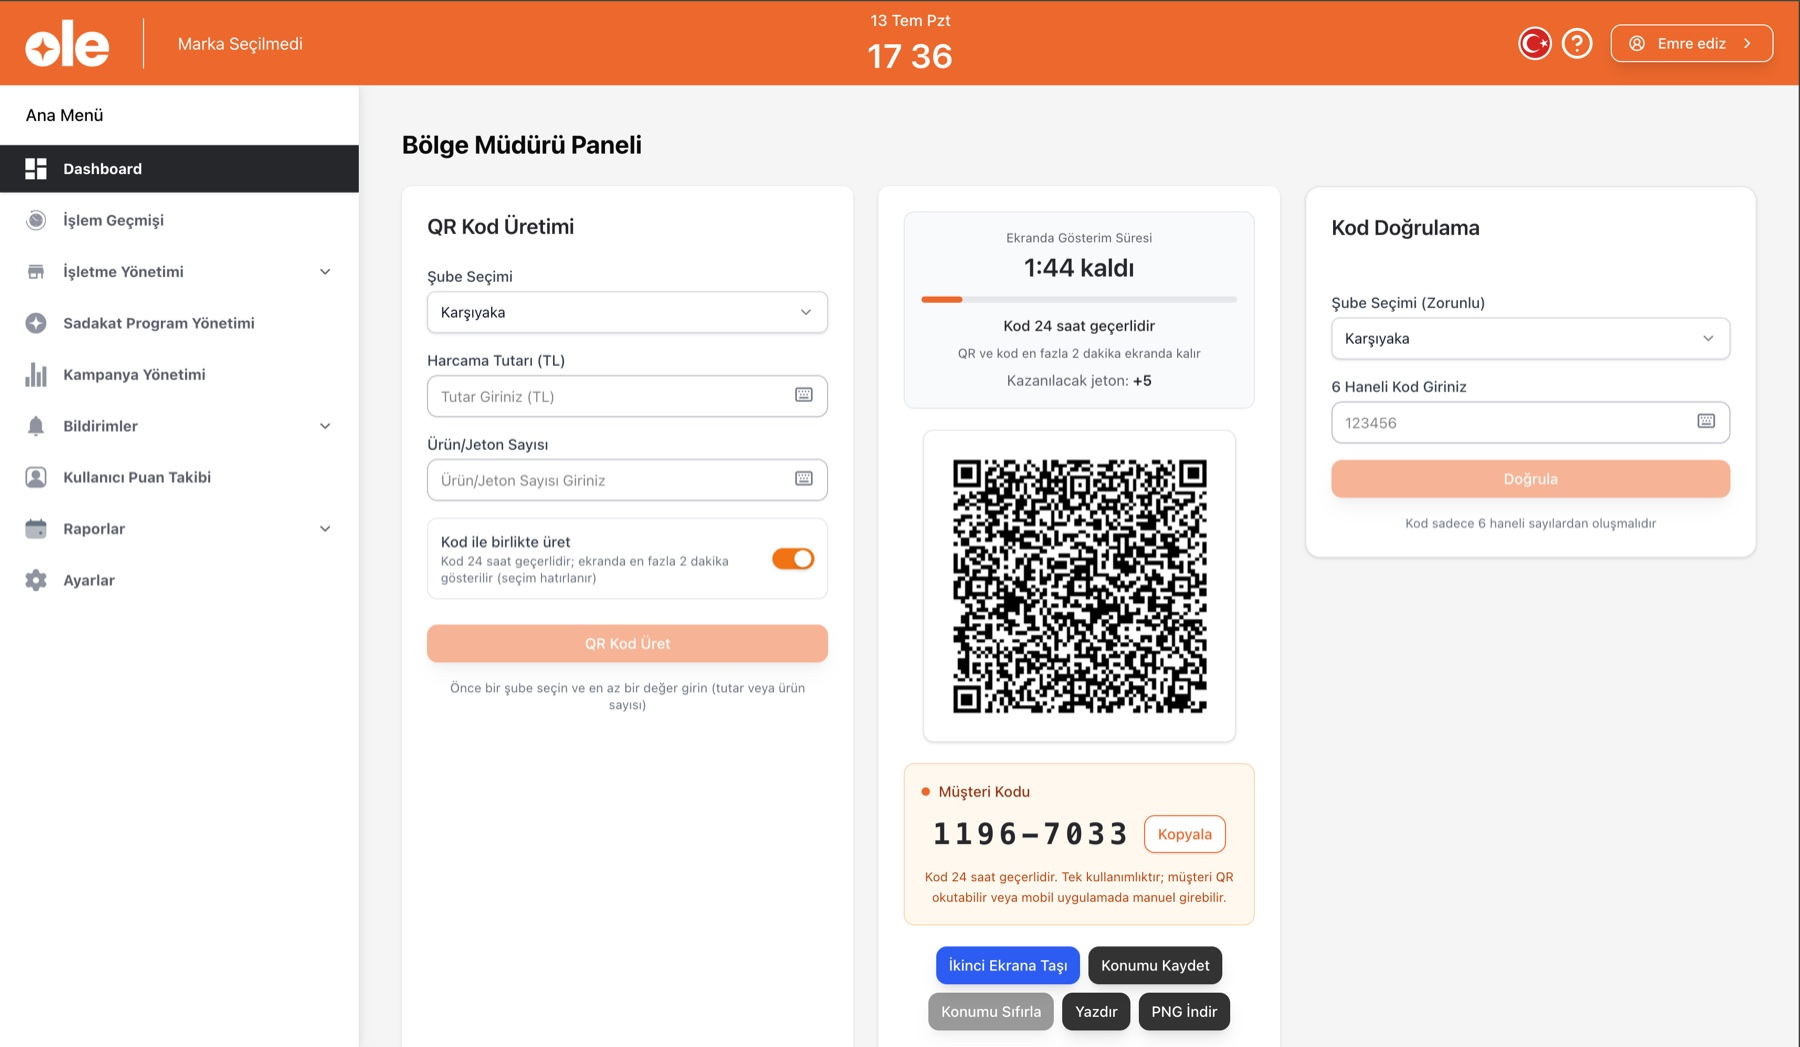
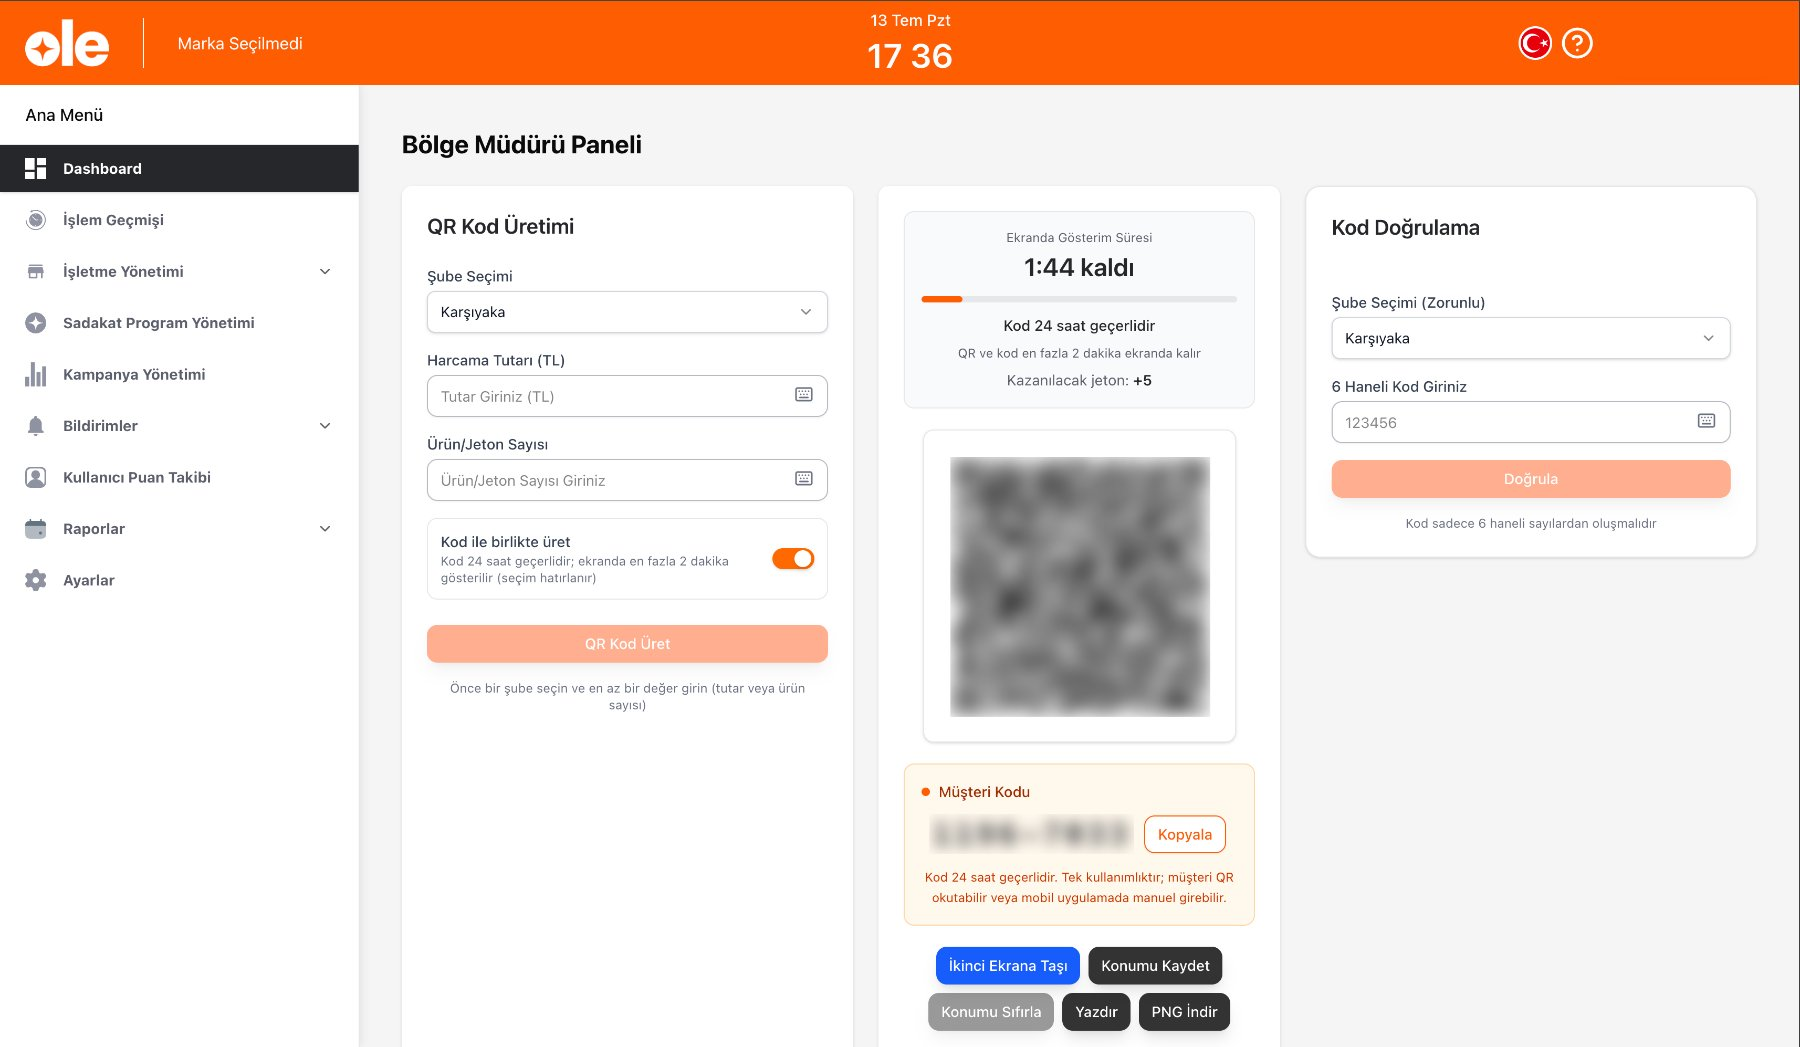
Phase 0: remove mascot and personal data from Ole web screenshots
Regenerated four derived web copies from the untouched originals with a
canvas edit (no new packages):
- screen-business.jpg, screen-notification.jpg: mascot removed from the
  "Menü" card; the label is re-centred on the card background.
- screen-home.jpg: the user's name removed from the greeting.
- panel.jpg: account-name chip removed; QR code and customer code blurred.
Dimensions are unchanged, so no layout or reference changes.

Also ignore the git-ignored /.tmp scratch folder in ESLint.

Claude-Session: https://claude.ai/code/session_01LJUtQyYxXMAY4QVd8GHcUX

diff --git a/src/config/assets.ts b/src/config/assets.ts
@@ -1,8 +1,8 @@
 /**
  * Web-optimised product imagery. Generated with `sips` into each product's
  * `web/` folder; the originals in the parent folders are never modified.
- * These screenshots are clean full-screen captures (no marketing banners),
- * so they are only resized, not cropped.
+ * These screenshots are full-screen captures (no marketing banners); see
+ * the Ole notes below for the few regions that were cleaned.
  */
 export const IMG = {
   home: {
@@ -21,7 +21,11 @@ export const IMG = {
     logo: "/images/products/ole/web/logo.png",
     logoW: 680,
     logoH: 380,
-    // Mobile app screens — 900 x 1947 (9 : 19.5)
+    // Mobile app screens — 900 x 1947 (9 : 19.5). Cleaned in the web copies
+    // (canvas edit, originals untouched): the mascot is removed from the
+    // business/notification "Menü" card and the user's name from the home
+    // greeting. The panel copy has the account name removed and the QR code
+    // and customer code blurred.
     screenHome: "/images/products/ole/web/screen-home.jpg",
     screenLoyalty: "/images/products/ole/web/screen-loyalty.jpg",
     screenNotification: "/images/products/ole/web/screen-notification.jpg",
